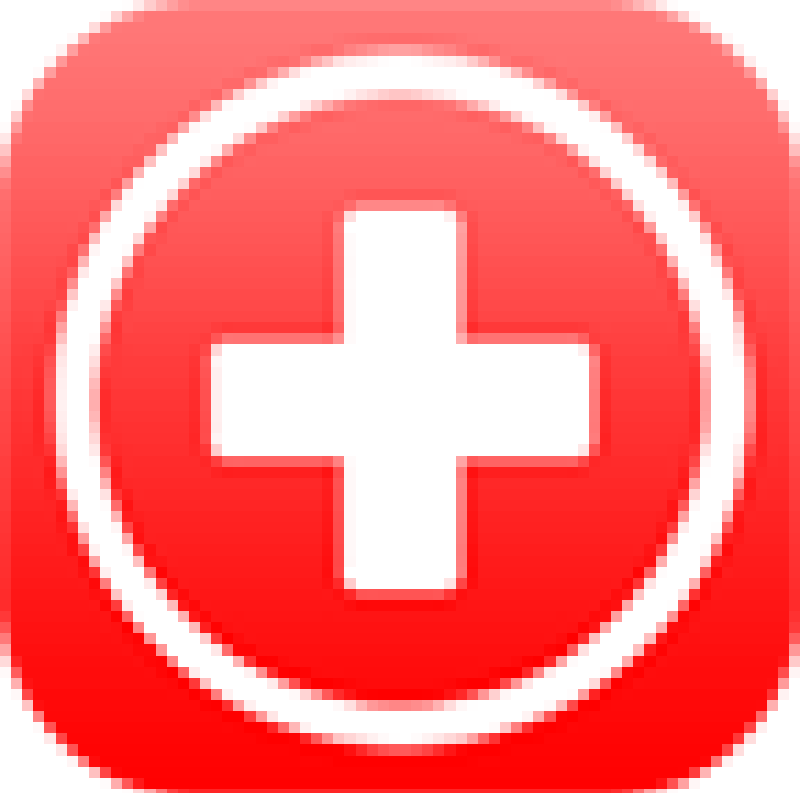
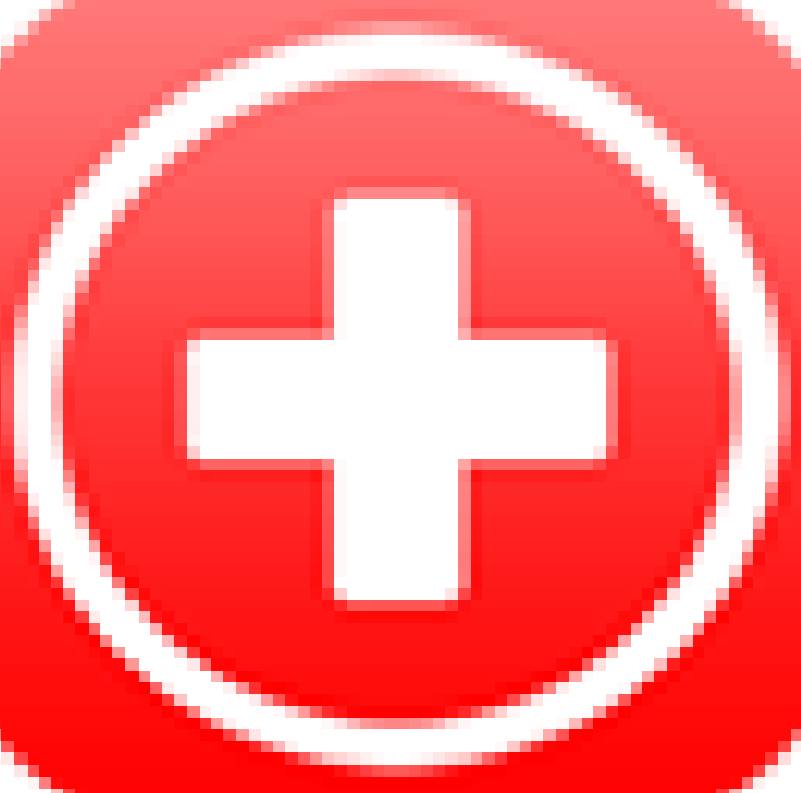
Add new project Pigeon Passage. Minimize asset size. Update screenshots.

diff --git a/index.html b/index.html
@@ -89,14 +89,13 @@
 
       <div class="row">
 
-        <h2>Hello! I love Programming.</h2>
+        <h2>Hello! I like to code.</h2>
 
         <p> 
         I'm a technology-loving student at the University of Toronto St.George studying to get an Honours Bachelor of Science with a double major in Computer Science and History. 
         
         <br><br>        
-            When I'm not in class working out complexity proofs or programming my next course project, I'm either learning new technologies, doing full-stack development with startups, or I'm working on my own startup
-            and setting up times to pitch to investors.
+            When I'm not in class working out complexity proofs or programming my next course project, I'm either learning new technologies, doing full-stack development with startups, or I'm working on my own startup and setting up times to pitch to investors.
         <br>
 
         Still curious? Find me on <a href="http://ca.linkedin.com/pub/thanasi-karachotzitis/84/632/636">LinkedIn</a>.
@@ -143,6 +142,40 @@
                <div class="columns portfolio-item">
                   <div class="item-wrap">
 
+                     <a href="#modal-05" title="">
+                        <img alt="" src="images/portfolio/pigeon800x800.jpg">
+                        <div class="overlay">
+                           <div class="portfolio-item-meta">
+                          <h5>Pigeon Passage Android Game</h5>
+                              <p>Android Developer</p>
+                       </div>
+                        </div>
+                        <div class="link-icon"><i class="icon-plus"></i></div>
+                     </a>
+
+                  </div>
+              </div> <!-- item end -->
+
+               <div class="columns portfolio-item">
+                  <div class="item-wrap">
+
+                     <a href="#modal-04" title="">
+                        <img alt="" src="images/portfolio/triage800x800.png">
+                        <div class="overlay">
+                           <div class="portfolio-item-meta">
+                          <h5>Triage: Hospital ER Android Application</h5>
+                              <p>Android Developer</p>
+                       </div>
+                        </div>
+                        <div class="link-icon"><i class="icon-plus"></i></div>
+                     </a>
+
+                  </div>
+              </div> <!-- item end -->
+
+              <div class="columns portfolio-item">
+                  <div class="item-wrap">
+
                      <a href="#modal-02" title="">
                         <img alt="" src="images/portfolio/cord-800x800.jpg">
                         <div class="overlay">
@@ -157,7 +190,7 @@
                   </div>
           		</div> <!-- item end -->
 
-               <div class="columns portfolio-item">
+              <div class="columns portfolio-item">
                   <div class="item-wrap">
 
                      <a href="#modal-03" title="">
@@ -165,23 +198,6 @@
                         <div class="overlay">
                            <div class="portfolio-item-meta">
           					      <h5>Lazy Grades</h5>
-                              <p>Android Developer</p>
-          					   </div>
-                        </div>
-                        <div class="link-icon"><i class="icon-plus"></i></div>
-                     </a>
-
-                  </div>
-          		</div> <!-- item end -->
-
-               <div class="columns portfolio-item">
-                  <div class="item-wrap">
-
-                     <a href="#modal-05" title="">
-                        <img alt="" src="images/portfolio/triage800x800.jpg">
-                        <div class="overlay">
-                           <div class="portfolio-item-meta">
-          					      <h5>Triage: Hospital ER Android Application</h5>
                               <p>Android Developer</p>
           					   </div>
                         </div>
@@ -199,7 +215,7 @@
          <!-- Modal Popup -->
          <div id="modal-01" class="popup-modal mfp-hide">
 
-		      <img class="scale-with-grid" src="images/portfolio/modals/arima-1075x750.png" alt="" />
+		      <img class="scale-with-grid" src="images/portfolio/modals/arima1075x800.jpg" alt="" />
 
 		      <div class="description-box">
             <h4>Arima.io</h4>
@@ -272,34 +288,18 @@
 
          <div id="modal-04" class="popup-modal mfp-hide">
 
-		      <img class="scale-with-grid" src="images/portfolio/modals/m-intothelight.jpg" alt="" />
-
-		      <div class="description-box">
-			      <h4>Easy Meets</h4>
-			      <p>Easy Meets is a mobile application I'm currently developing that allows users to 
-			      add several people at once with the touch of one button. I plan to release this app
-			      	onto the Android appstore in mid-December 2014.
-			      </p>
-               <span class="categories"><i class="fa fa-tag"></i>Java, XML, Android, Mobile Development</span>
-		      </div>
-
-            <div class="link-box">
-		<a class="popup-modal-dismiss">Close</a>
-            </div>
-
-	      </div><!-- modal-04 End -->
-
-
-         <div id="modal-05" class="popup-modal mfp-hide">
-
 		      <img class="scale-with-grid" src="images/portfolio/modals/triage-1075-750.jpg" alt="" />
 
 		      <div class="description-box">
 			      <h4>Triage: Hospital ER Android Application</h4>
             <h4 class="pushed-up">Android Developer</h4>			      
-            <p>This was a team-based course project for one of my second year software development classes. Our team created an Android application which stored various information about ER patients, such as vital signs, symptoms and personal credentials.
+            <p>This was a team-based course project for one of my second year software development classes. 
+             Our team created an Android application which stored various information about ER patients, 
+             such as vital signs, symptoms and personal credentials.
             <br><br>
-             Using this information, the application performed an algorithm which ranked patients according to how urgently they needed to be seen by a doctor. In practice, the application would allow doctors to tend to patients in a more efficient and quicker manner
+             Using this information, the application performed an algorithm which ranked patients according 
+             to how urgently they needed to be seen by a doctor. In practice, the application would allow 
+             doctors to tend to patients in a more efficient and quicker manner.
 			      </p>
                <span class="categories"><i class="fa fa-tag"></i>Java, XML, Android, Software Design, Mobile Development</span>
 		      </div>
@@ -308,7 +308,27 @@
 		       <a class="popup-modal-dismiss">Close</a>
             </div>
 
-	      </div><!-- modal-05 End -->
+	      </div><!-- modal-04 End -->
+
+
+        <div id="modal-05" class="popup-modal mfp-hide">
+
+          <img class="scale-with-grid" src="images/portfolio/modals/pigeon1075-950.jpg" alt="" />
+
+          <div class="description-box">
+            <h4>Pigeon Passage Android Game</h4>
+            <h4 class="pushed-up">Android Developer</h4>  
+            <p>
+              I created Pigeon Passage, with the help of a talented pixel art designer, as part of a summer project supervised by University of Toronto Computer Science Lecturer, <a href="http://www.cs.toronto.edu/~sengels/" class="modal-link">Steve Engels</a>. It was created using the GameMaker Engine. Pigeon Passage was created to promote the Royal Ontario Museum's 100th anniversary additions to the biodiversity exhibit. The game went from idea to live presentations within the course of a few weeks and is often displayed for public use at various promotional events at the museum.
+            </p>
+               <span class="categories"><i class="fa fa-tag"></i>Scripting, GameMaker Engine, Android, Game Development </span>
+          </div>
+
+            <div class="link-box">
+              <a class="popup-modal-dismiss">Close</a>
+            </div>
+
+        </div><!-- modal-05 End -->
 
       </div> <!-- row End -->
 
@@ -329,7 +349,6 @@
 		      <p class="scrollup" >
 		         <a class="smoothscroll" href="#home"><i class="icon-up-circle fa-3x" id="go-top"></i></a>
 		      </p>
-
 
    </footer> <!-- Footer End-->
 

diff --git a/css/layout.css b/css/layout.css
@@ -364,6 +364,10 @@ header .scrolldown a:hover { color: #11ABB0; }
 .popup-modal a:hover {	color: #00CCCC; }
 .popup-modal a.popup-modal-dismiss { margin-left: 24px; }
 
+.modal-link {
+  text-decoration: none !important;
+  color: #088 !important;
+}
 
 /* fadein/fadeout effect for modal popup
 /* ------------------------------------------------------------------ */
